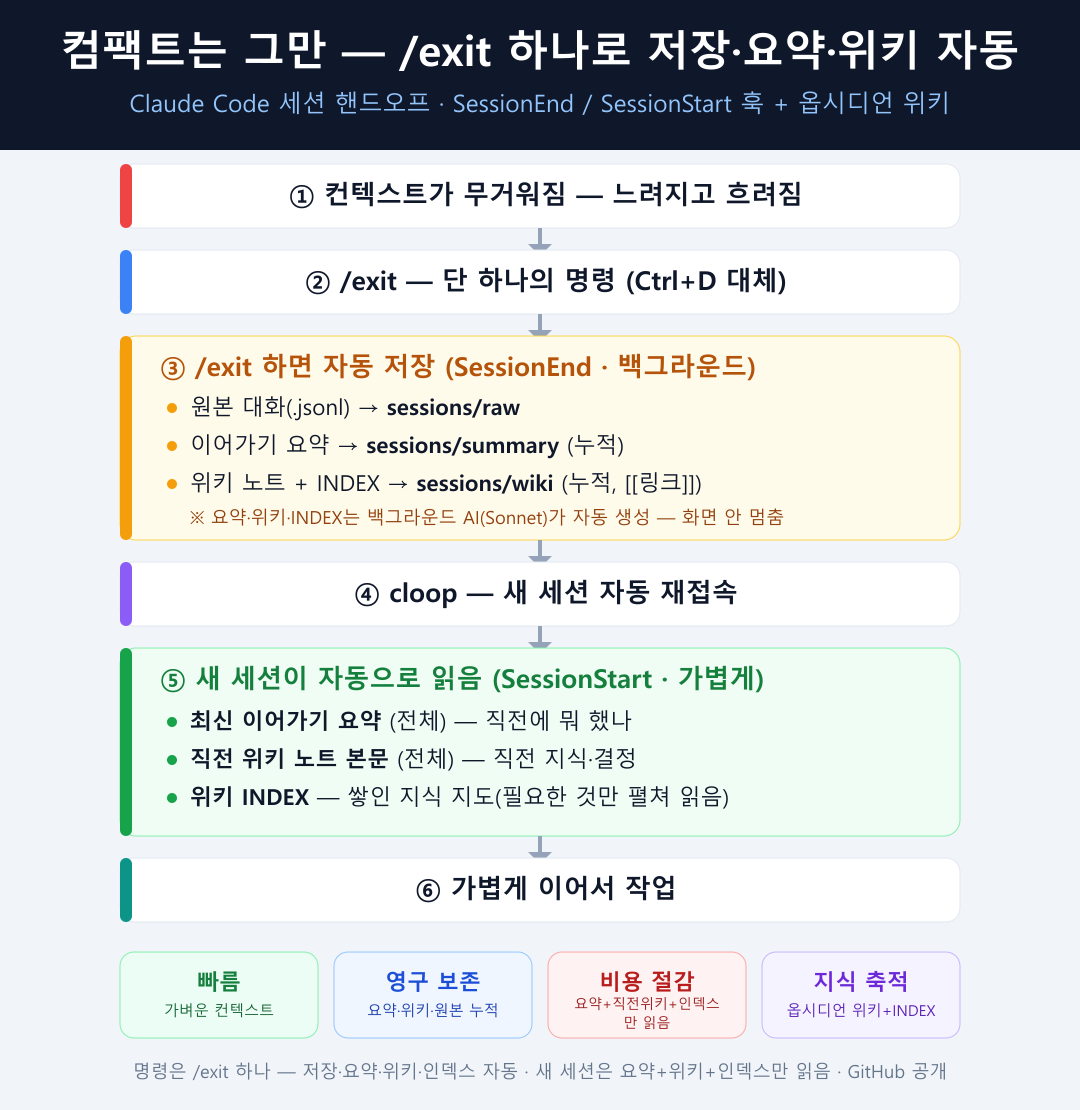
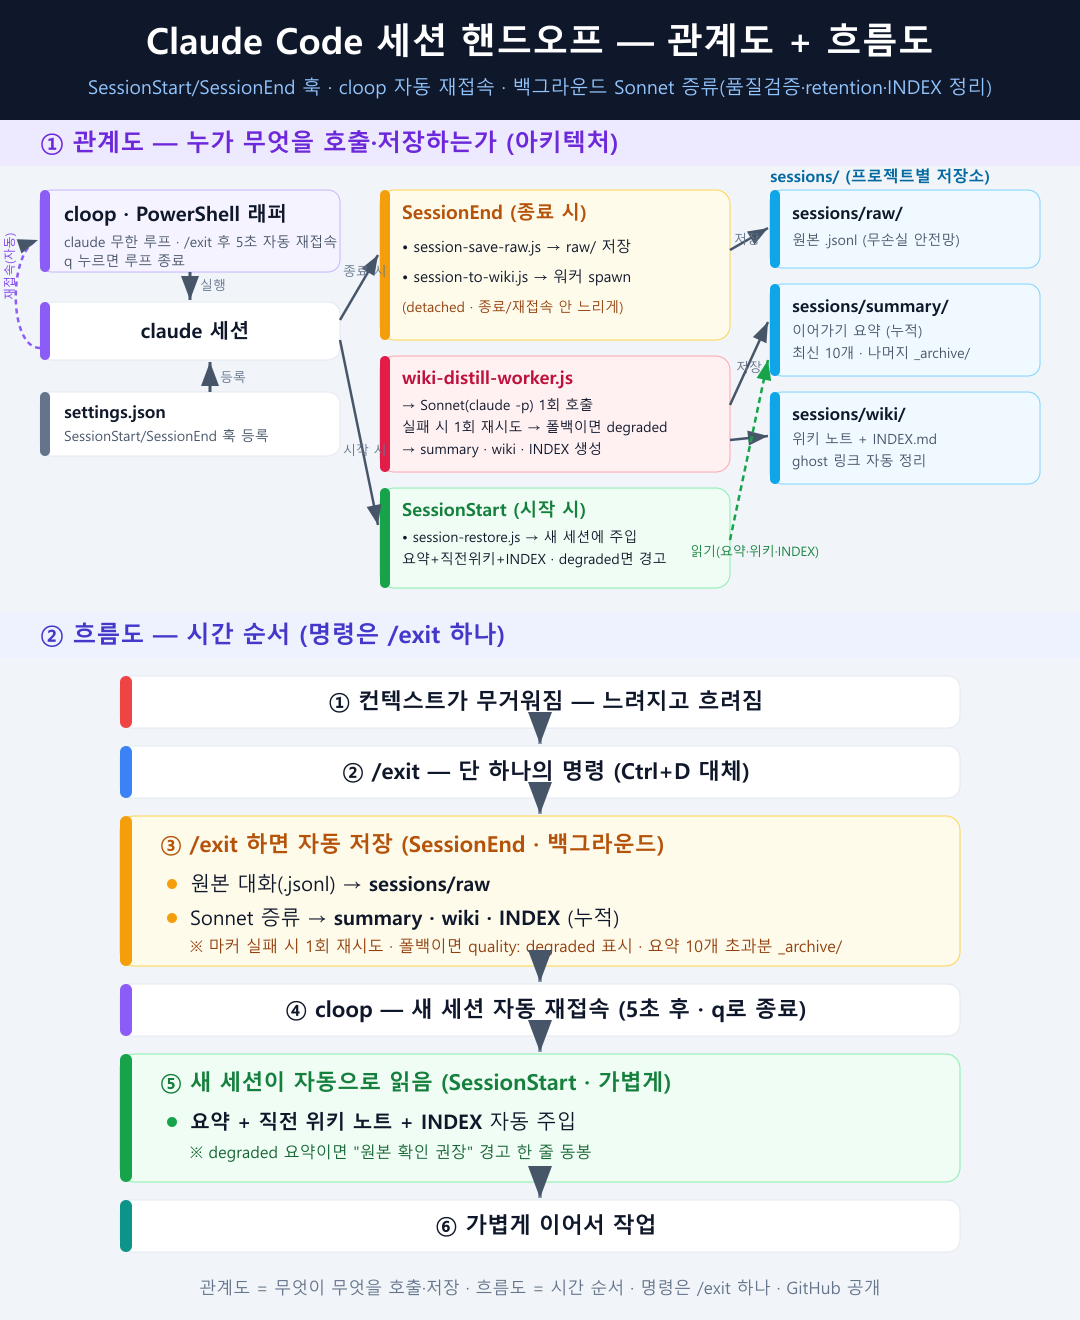
i18n+docs: 증류 출력 언어를 세션 언어 따라가게 + 경로 일반화 + 다이어그램(관계도+흐름도) 교체
- wiki-distill-worker.js: 프롬프트를 언어중립(영어 메타지시)로 바꿔 출력 언어가 전사록 주 언어를 따름
  (한국어 세션→한국어, 영어 세션→영어). 요약 제목도 모델 제목 사용(한국어 하드코딩 제거).
- docs/세션훅_설명서.md: settings 예시 경로 c:/Users/home → c:/Users/<사용자명> 일반화.
- docs/flow.svg·flow.png: 단일 흐름도 → 관계도(아키텍처)+흐름도 2단 다이어그램으로 교체.
영어 더미 전사록 실호출로 언어 따라가기 검증 통과.

Changed region(s): [[0.0, 0.0, 1.0, 0.9802], [0.8861, 0.3369, 0.9167, 0.3676]]

diff --git a/hooks/wiki-distill-worker.js b/hooks/wiki-distill-worker.js
@@ -75,7 +75,8 @@ function main() {
 
   const project = path.basename(cwd);
   // 한 번의 호출로 세 섹션 출력 (마커로 구분). 프롬프트는 한 줄(cmd 안전).
-  const PROMPT = "다음 입력은 Claude Code 세션 전사록이다. 한국어로 세 부분만 출력하라. (1) 한 줄에 @@@TITLE@@@ 만 단독으로 쓰고 그 아래 이 세션을 한 문장(40자 이내)으로 압축한 제목 한 줄. (2) 한 줄에 @@@HANDOFF@@@ 만 단독으로 쓰고 그 아래 '## 한 일 / ## 현재 상태 / ## 다음 할 일' 형식의 6~10줄 이어가기 요약. (3) 한 줄에 @@@WIKI@@@ 만 단독으로 쓰고 그 아래 이번 세션의 핵심 지식·결정·산출물을 주제별로 정리하고 관련 개념은 [[제목]] 형식 위키링크로 표시한 지식 노트. 세 마커는 각각 한 줄에 단독으로. 머리말·설명 없이 세 부분만 출력.";
+  // 출력 언어는 전사록의 주 언어를 따른다(한국어 세션→한국어, 영어 세션→영어 …). 메타 지시는 언어중립(영어).
+  const PROMPT = "The following input is a Claude Code session transcript. First detect the transcript's main language, then write ALL of your output in that same language. Output only three parts. (1) A line containing only @@@TITLE@@@ , then below it a one-line title compressing this session (about 40 characters or fewer). (2) A line containing only @@@HANDOFF@@@ , then below it a 6-10 line handoff summary with three sections meaning: What was done / Current state / Next steps. (3) A line containing only @@@WIKI@@@ , then below it a knowledge note that organizes this session's key knowledge, decisions and artifacts by topic, marking related concepts as [[title]] wikilinks. Each of the three markers must be alone on its own line. No preamble or explanation, output only the three parts.";
   const cmd = `claude -p "${PROMPT}" --model claude-sonnet-4-6 --dangerously-skip-permissions`;
 
   const env = { ...process.env, CLAUDE_WIKI_CHILD: '1' };
@@ -119,13 +120,13 @@ function main() {
   // 산출물 쓰기 — degradedReason이 truthy면 frontmatter에 품질 저하 기록
   function writeOut(p, degradedReason) {
     let title = p.title, summary = p.summary, wiki = p.wiki;
-    if (!title) title = `${project} 세션`;
+    if (!title) title = project;
     const dateIso = new Date().toISOString();
     const stamp = ts();
     const qLines = degradedReason ? `quality: degraded\ndegraded_reason: ${degradedReason}\n` : '';
     try {
       // ① 이어가기 요약 → summary 폴더에 누적(매번 새 파일, 덮어쓰지 않음)
-      const summaryNote = `---\ndate: ${dateIso}\nproject: ${project}\ntype: handoff-summary\nsource: auto (SessionEnd / Sonnet)\n${qLines}---\n\n# 이어가기 요약 — ${project} (${stamp})\n\n${summary}\n`;
+      const summaryNote = `---\ndate: ${dateIso}\nproject: ${project}\ntype: handoff-summary\nsource: auto (SessionEnd / Sonnet)\n${qLines}---\n\n# ${title} (${stamp})\n\n${summary}\n`;
       fs.writeFileSync(path.join(summaryDir, `${stamp}_${sid}_요약.md`), summaryNote, 'utf8');
       log('이어가기 요약 저장(summary/ 누적)' + (degradedReason ? ` [degraded: ${degradedReason}]` : ''));
 

diff --git a/docs/세션훅_설명서.md b/docs/세션훅_설명서.md
@@ -56,11 +56,11 @@ wiki/     ← 위키 노트(지식·결정 + [[링크]]) (누적)
 ## 3. settings.json 등록
 ```jsonc
 "SessionStart": [ { "hooks": [
-  { "type":"command", "command":"node \"c:/Users/home/.claude/hooks/session-restore.js\"" }
+  { "type":"command", "command":"node \"c:/Users/<사용자명>/.claude/hooks/session-restore.js\"" }
 ] } ],
 "SessionEnd": [ { "hooks": [
-  { "type":"command", "command":"node \"c:/Users/home/.claude/hooks/session-save-raw.js\"" },
-  { "type":"command", "command":"node \"c:/Users/home/.claude/hooks/session-to-wiki.js\"" }
+  { "type":"command", "command":"node \"c:/Users/<사용자명>/.claude/hooks/session-save-raw.js\"" },
+  { "type":"command", "command":"node \"c:/Users/<사용자명>/.claude/hooks/session-to-wiki.js\"" }
 ] } ]
 ```
 
